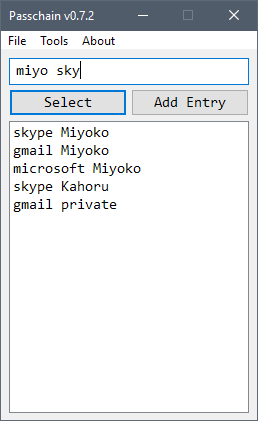
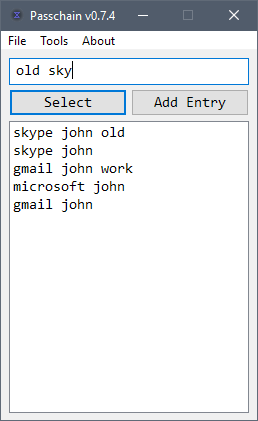
Updated screenshots and made search case-insensitive.

diff --git a/src/edit_distance.hpp b/src/edit_distance.hpp
@@ -2,6 +2,7 @@
 
 #include "utility/utility.hpp"
 
+#include <cctype>
 #include <cstdint>
 #include <algorithm>
 #include <string>
@@ -44,8 +45,24 @@ inline std::uint32_t levenshteinDistance(const std::string& s0, const std::strin
 
 inline std::uint32_t wordBasedEditDistance(const std::string& searchString, const std::string& dataString)
 {
-	auto searchWords = parseWords(searchString);
-	auto dataWords = parseWords(dataString);
+	const auto convertToLowerCase = [](std::vector<std::string> words)
+	{
+		for (auto& word : words)
+		{
+			for (auto& c : word)
+			{
+				if (std::isalpha(c))
+				{
+					c = std::tolower(c);
+				}
+			}
+		}
+
+		return words;
+	};
+
+	auto searchWords = convertToLowerCase(parseWords(searchString));
+	auto dataWords = convertToLowerCase(parseWords(dataString));
 
 	std::uint32_t distance = 0;
 
